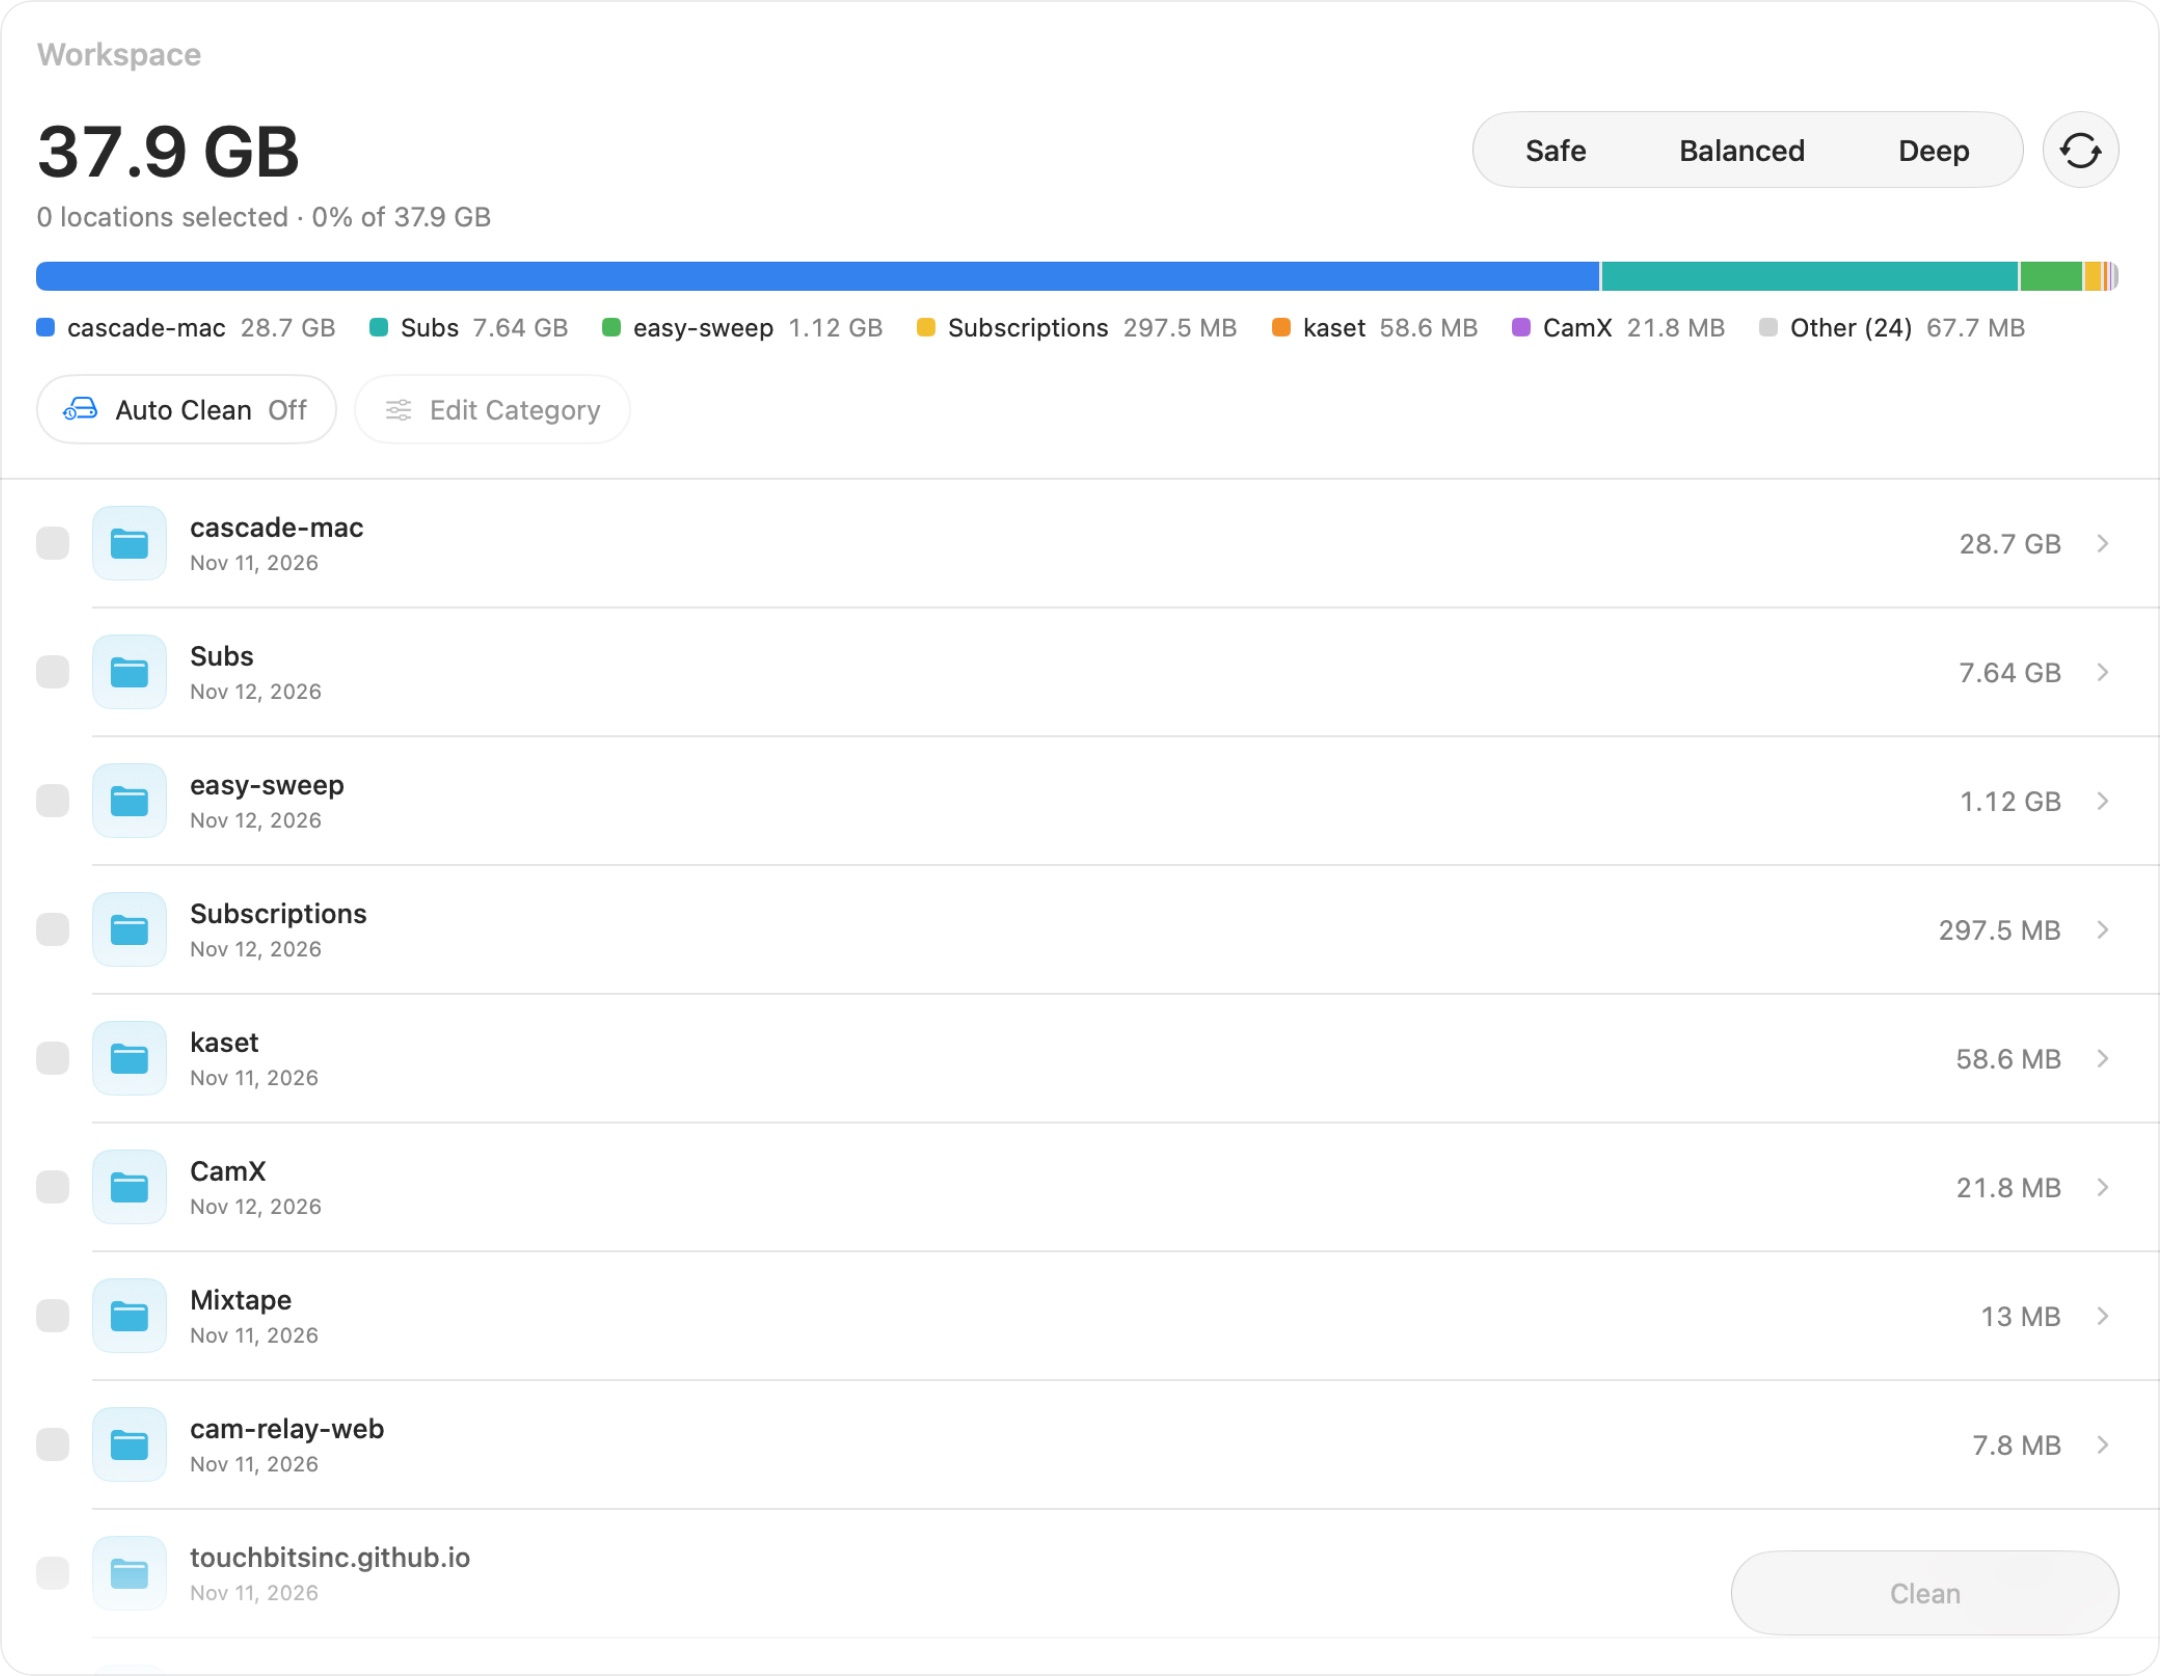
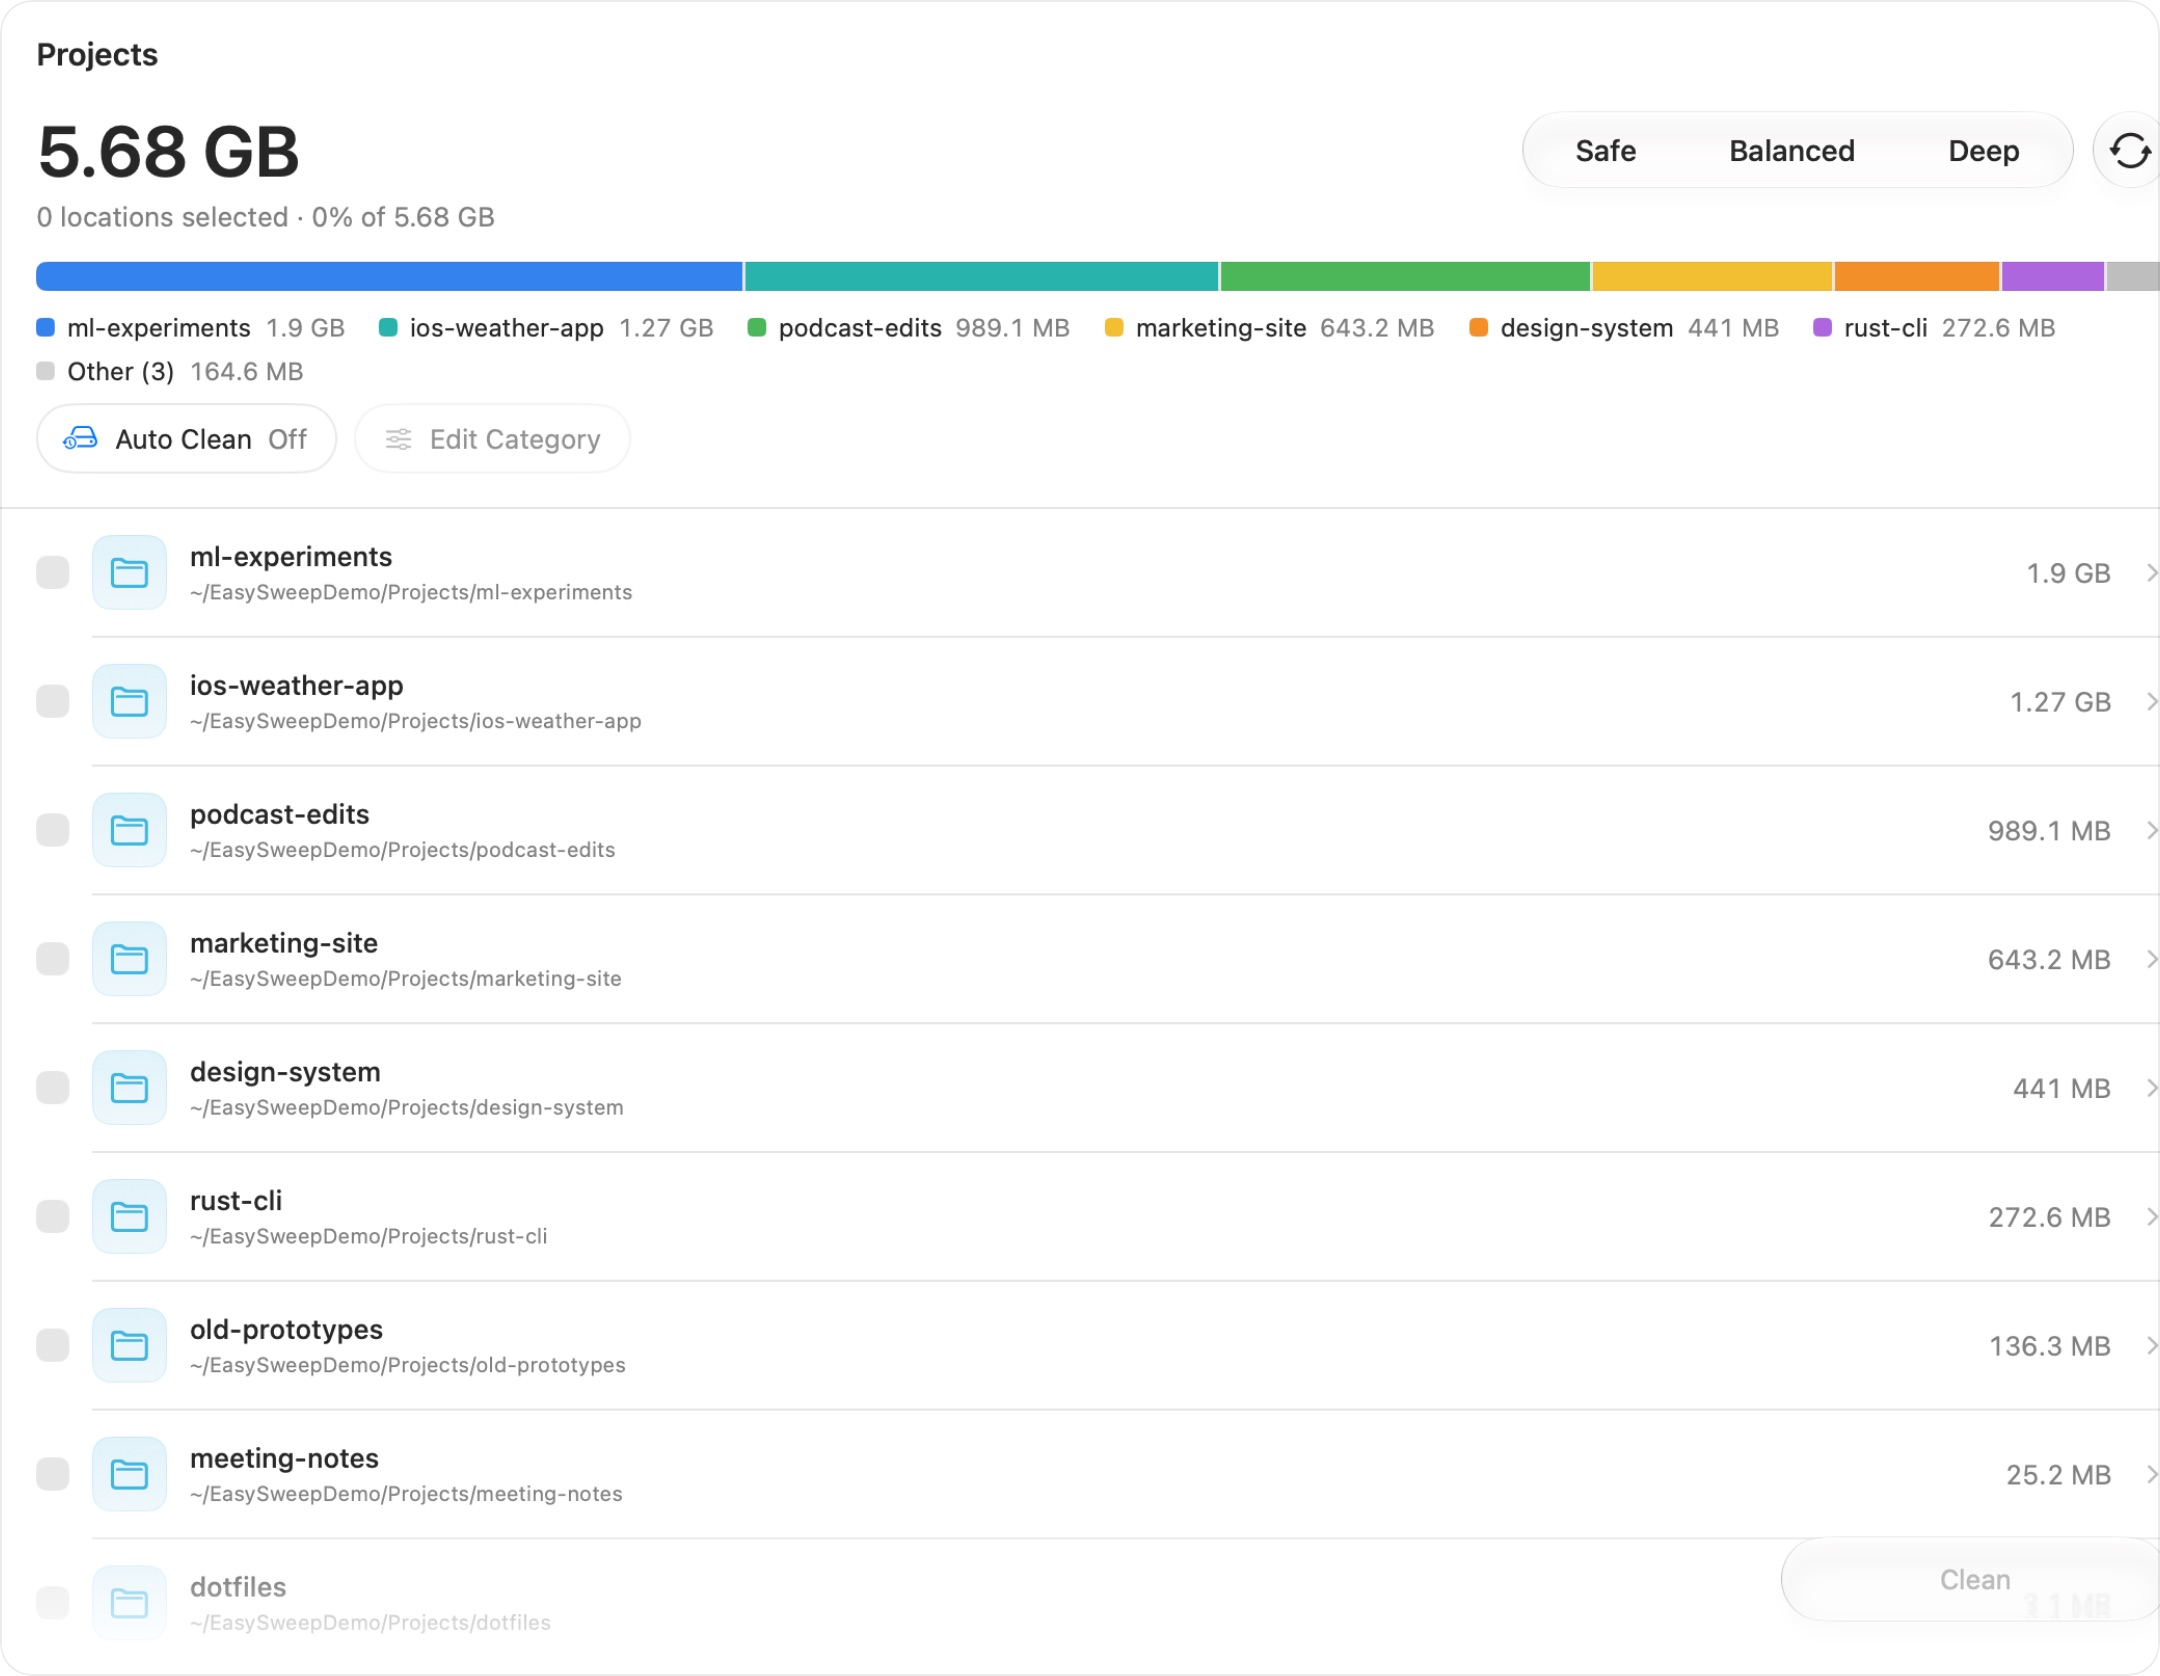
docs(web): refresh screenshots with sidebars and demo projects

diff --git a/web/index.html b/web/index.html
@@ -153,7 +153,7 @@
 
     <figure class="shot reveal">
       <div class="window">
-        <img src="/assets/shots/03-caches.jpg" alt="The Caches section as a dot-matrix bar and a list of apps: Safari 1.69 GB, Google Chrome 1.39 GB, Codex, Maps and WeChat, with several ticked for cleaning." width="2160" height="1627" loading="lazy">
+        <img src="/assets/shots/03-caches.jpg" alt="The Caches section as a dot-matrix bar and a list of apps: Safari 1.69 GB, Google Chrome 1.39 GB, Codex, Maps and WeChat, with several ticked for cleaning." width="2200" height="1375" loading="lazy">
       </div>
       <figcaption>Every location with its own size, grouped by the app it belongs to. Tick by hand, or pick a level.</figcaption>
     </figure>
@@ -261,7 +261,7 @@
 
     <figure class="shot reveal">
       <div class="window">
-        <img src="/assets/shots/05-utilities.jpg" alt="Utilities showing Duplicate Files: duplicate images selected, 15.3 MB in all, each listed with how many copies exist and which copy is kept." width="2160" height="1676" loading="lazy">
+        <img src="/assets/shots/05-utilities.jpg" alt="Utilities showing Duplicate Files: duplicate images selected, 15.3 MB in all, each listed with how many copies exist and which copy is kept." width="2200" height="1413" loading="lazy">
       </div>
       <figcaption>Scanning is free. Whatever you tick, one copy of every duplicate stays.</figcaption>
     </figure>
@@ -309,7 +309,7 @@
 
     <figure class="shot reveal">
       <div class="window">
-        <img src="/assets/shots/06-auto-clean.jpg" alt="The Auto Clean page for Caches with three rows switched on: clean when a cache is over 5 GB, or when space is low, removing everything or only files older than a week." width="2160" height="1220" loading="lazy">
+        <img src="/assets/shots/06-auto-clean.jpg" alt="The Auto Clean page for Caches with three rows switched on: clean when a cache is over 5 GB, or when space is low, removing everything or only files older than a week." width="2200" height="1031" loading="lazy">
       </div>
       <figcaption>Each item cleans itself at its own size. Anything you leave off is never touched without you.</figcaption>
     </figure>
@@ -345,7 +345,7 @@
 
     <figure class="shot reveal">
       <div class="window">
-        <img src="/assets/shots/07-custom.jpg" alt="A custom category named Workspace: 37.9 GB of project folders, each listed with its size and the date it last changed." width="2160" height="1676" loading="lazy">
+        <img src="/assets/shots/07-custom.jpg" alt="A custom category named Projects: 5.68 GB across project folders such as ml-experiments, ios-weather-app and podcast-edits, each listed with its size." width="2160" height="1676" loading="lazy">
       </div>
       <figcaption>Point EasySweep at the folders that matter to you, and it measures them like any built-in section.</figcaption>
     </figure>
@@ -402,7 +402,7 @@
 
     <figure class="shot reveal">
       <div class="window">
-        <img src="/assets/shots/08-activity.jpg" alt="The Activity page: 59.63 GB reclaimed this month across 5 cleans, a chart of space reclaimed by location, and a list of cleans and app updates by date." width="2160" height="1676" loading="lazy">
+        <img src="/assets/shots/08-activity.jpg" alt="The Activity page: 59.63 GB reclaimed this month across 5 cleans, a chart of space reclaimed by location, and a list of cleans and app updates by date." width="2200" height="1413" loading="lazy">
       </div>
       <figcaption>By month, three months or year, with what each clean took.</figcaption>
     </figure>
@@ -450,7 +450,7 @@
 
     <figure class="shot reveal">
       <div class="window">
-        <img src="/assets/shots/09-monitor.jpg" alt="System Monitor with CPU at 26%, GPU at 16%, 32.84 GB of memory in use and disk activity at 1.5 MB/s, under a menu bar showing EasySweep&rsquo;s widgets: free space, CPU, GPU, memory, network and disk." width="2160" height="1768" loading="lazy">
+        <img src="/assets/shots/09-monitor.jpg" alt="System Monitor with CPU at 26%, GPU at 16%, 32.84 GB of memory in use and disk activity at 1.5 MB/s, under a menu bar showing EasySweep&rsquo;s widgets: free space, CPU, GPU, memory, network and disk." width="2200" height="1452" loading="lazy">
       </div>
       <figcaption>Live in the window — and in your menu bar, with the widgets you pick.</figcaption>
     </figure>
